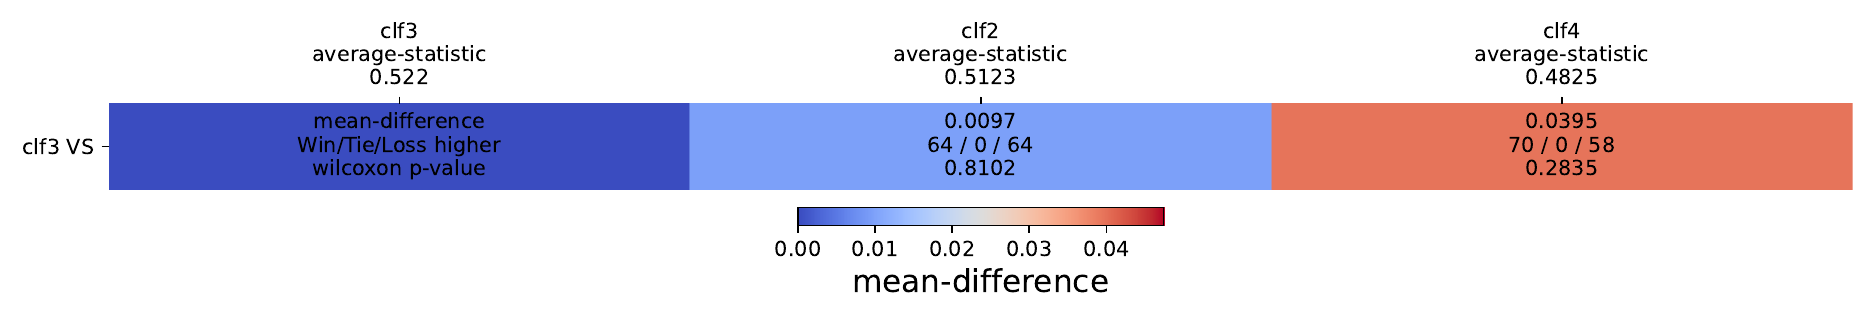
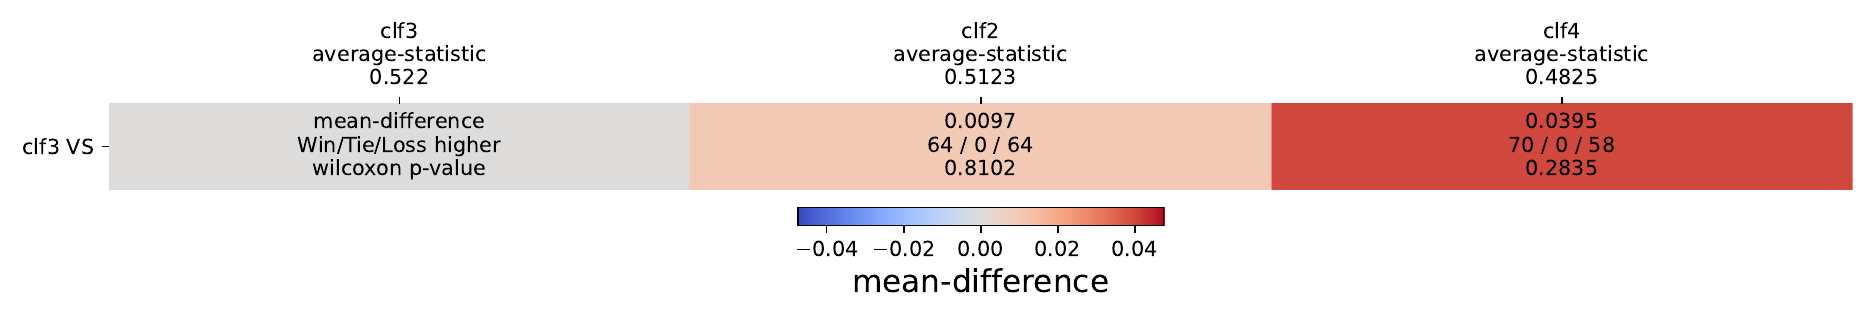
[BUG] fixed the possibility of negative values in the case of heatline

Changed region(s): [[0.0309, 0.3106, 0.9893, 0.5901], [0.4019, 0.7453, 0.6183, 0.8075]]

diff --git a/MCM/utils.py b/MCM/utils.py
@@ -313,7 +313,7 @@ def get_sign(x):
 
     return 1 if x > 0 else -1
 
-def get_limits(pairwise_matrix):
+def get_limits(pairwise_matrix, can_be_negative=False):
 
     """
     
@@ -324,6 +324,8 @@ def get_limits(pairwise_matrix):
     ----------
     pairwise_matrix : ndarray, shape = (n_classifiers, n_classifiers), a matrix containing 
                       the 1v1 statistical values (by default: difference of arithmetic mean of stats)
+    can_be_negative : bool, default = False, whether or not the values can be negative to help
+                        the case of the heatline
     
     Returns
     -------
@@ -338,7 +340,7 @@ def get_limits(pairwise_matrix):
         min_value = round(np.min(pairwise_matrix), 4)
         max_value = round(np.max(pairwise_matrix), 4)
 
-        if min_value >= 0 and max_value >= 0:
+        if min_value >= 0 and max_value >= 0 and (not can_be_negative):
             return min_value, max_value
 
         return - max(abs(min_value),abs(max_value)), max(abs(min_value),abs(max_value))

diff --git a/MCM/MCM.py b/MCM/MCM.py
@@ -693,7 +693,10 @@ def _get_line_heatmap(proposed_method,
     plt.rcParams["figure.autolayout"] = True
     fig, ax = plt.subplots(1, 1, figsize=(figsize[0], figsize[1]))
 
-    min_value, max_value = get_limits(pairwise_matrix=pairwise_line)
+    _can_be_negative = False
+    if colorbar_value is None or colorbar_value == 'mean-difference':
+        _can_be_negative = True
+    min_value, max_value = get_limits(pairwise_matrix=pairwise_line, can_be_negative=_can_be_negative)
 
     if colormap is None:
         _colormap = 'coolwarm'
